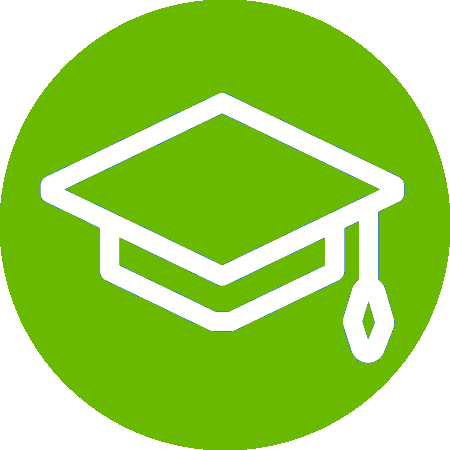
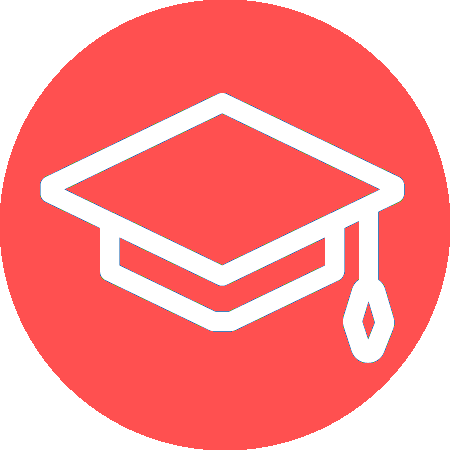
Fixed colors. Fashionable!

diff --git a/src/public/styles/main.css b/src/public/styles/main.css
@@ -141,6 +141,7 @@ h1, h2 {
     top: 1em;
     right: 1em;
     z-index: 999;
+    transition: visibility 1s ease-in-out;
 }
 
 .menu-img {
@@ -151,11 +152,11 @@ h1, h2 {
 .menu {
     position: relative;
     top: -20em;
-    -webkit-transition: all 0.5s ease-in-out;
-    -moz-transition: all 0.5s ease-in-out;
-    -o-transition: all 0.5s ease-in-out;
-    -ms-transition: all 0.5s ease-in-out;
-    transition: all 0.5s ease-in-out;
+    -webkit-transition: all 0.5s .25s ease-in-out;
+    -moz-transition: all 0.5s .25s ease-in-out;
+    -o-transition: all 0.5s .25s ease-in-out;
+    -ms-transition: all 0.5s .25s ease-in-out;
+    transition: all 0.5s .25s ease-in-out;
 }
 
 .navigation:hover .menu {
@@ -167,13 +168,13 @@ h1, h2 {
 }
 
 .navigation:hover .menu-img {
-    display: none;
+    visibility: hidden;
 }
 
 .custom-btn {
     display: block;
     padding: 1em;
-    background-color: #6666ff;
+    background-color: #0068A9;
     color: white;
     font-weight: bold;
     cursor: pointer;

diff --git a/src/index.html b/src/index.html
@@ -13,7 +13,6 @@
     <link rel="stylesheet" href="/public/styles/work-experience.css">
     <link rel="stylesheet" href="/public/styles/strengths.css">
     <link rel="stylesheet" href="/public/styles/projects.css">
-    <link rel="stylesheet" media="print" href="/public/styles/print.css">
     <link rel="stylesheet" href="/public/styles/jquery-tooltip.css">
     <!-- endbuild -->
 </head>
@@ -62,6 +61,10 @@
     <script src="/public/scripts/skills.js"></script>
     <script src="/public/scripts/jquery-tooltip.js"></script>
     <script src="/public/scripts/main.js"></script>
+    <!-- endbuild -->
+
+    <!-- build:css /public/styles/print.css -->
+    <link rel="stylesheet" media="print" href="/public/styles/print.css">
     <!-- endbuild -->
 </body>
 

diff --git a/src/public/styles/skills.css b/src/public/styles/skills.css
@@ -4,16 +4,13 @@
 }
 
 .soft .skill-content {
-    background: #6666ff;
+    background: #0068A9;
     border-radius: 50%;
 }
 
-.tech:hover .skill-content {
-    background: #ff9999;
-}
-
-.soft:hover .skill-content {
-    background: #9999ff;
+.skill-content:hover {
+    opacity: 0.75;
+    text-shadow: 2px 2px 10px black;
 }
 
 .skill-content {
@@ -77,6 +74,10 @@
     margin-top: 0;
 }
 
+.skill-title {
+    text-transform: uppercase;
+}
+
 .skill-description {
     margin-top: 1em;
 }
@@ -104,9 +105,9 @@
 }
 
 .skill-details-container.soft {
-    border: 2px dashed #6666ff;
+    border: 2px dashed #0068A9;
 }
 
 .close-btn.soft:hover {
-    background-color: #9999ff;
+    background-color: #0098f9;
 }

diff --git a/src/public/scripts/skills.js b/src/public/scripts/skills.js
@@ -40,12 +40,13 @@ function attachSkillsEvents() {
         });
     });
 
-    function closeMsgBox() {
+    function closeMsgBox(event) {
+        event.preventDefault();
         $container.removeClass('active');
         $overlay.addClass('hidden');
         $code.html('');
     }
 
     $overlay.on('click', closeMsgBox);
-    $msgBox.on('click', '.close-btn', closeMsgBox);
+    $container.on('click', '.close-btn', closeMsgBox);
 }

diff --git a/src/public/styles/projects.css b/src/public/styles/projects.css
@@ -12,7 +12,7 @@
     display: inline-block;
     font-size: 24px;
     font-weight: normal;
-    color: #F54F33;
+    color: #FF5050;
 }
 
 .projects-component .projects .description {
@@ -20,5 +20,5 @@
 }
 
 .projects-component .link {
-    color: #53899F;
+    color: #0068A9;
 }

diff --git a/src/public/styles/print.css b/src/public/styles/print.css
@@ -1,4 +1,4 @@
-body {
+/*body {
     padding: 0;
 }
 
@@ -10,4 +10,4 @@ body {
     margin: 0;
     padding: 0;
     min-height: 91.5em
-}
+}*/

diff --git a/src/public/styles/languages.css b/src/public/styles/languages.css
@@ -1,6 +1,6 @@
 .languages-component strong {
     text-transform: uppercase;
-    color: #B23737;
+    color: #0068A9;
     
 }
 

diff --git a/src/public/styles/strengths.css b/src/public/styles/strengths.css
@@ -4,7 +4,7 @@
 }
 
 .strengths-component strong {
-    color: #69B900;
+    color: #FF5050;
     text-transform: uppercase;
 }
 

diff --git a/src/public/styles/education.css b/src/public/styles/education.css
@@ -4,7 +4,7 @@
 }
 
 .education-component .location {
-    color: #FF5050;
+    color: #0068A9;
 }
 
 .education-component li {
